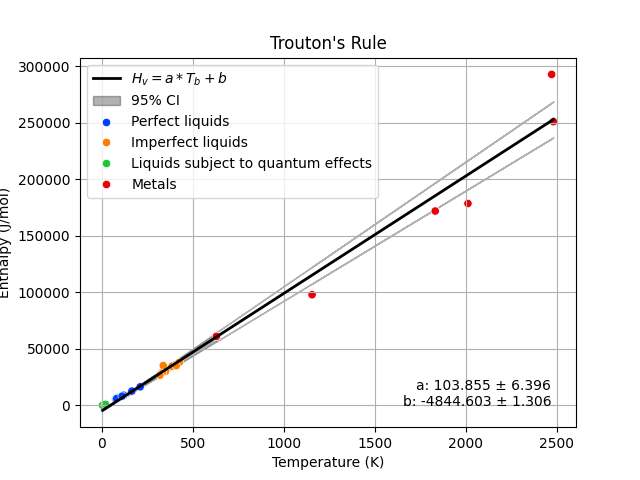
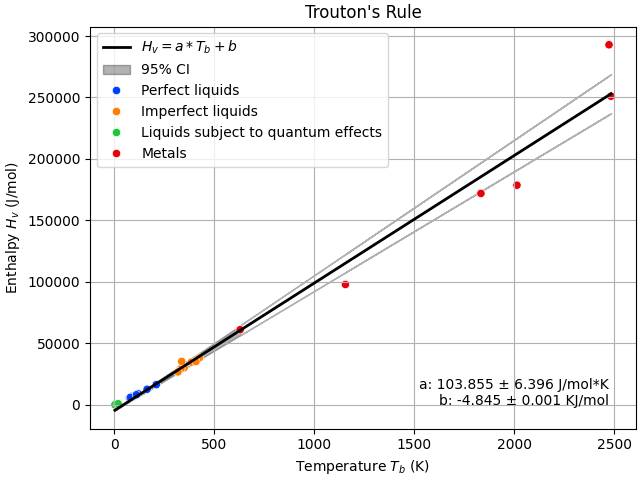
Adjusting 3-1, first commit 3-2

diff --git a/homework-3-2/troutons_rule_optimization.py b/homework-3-2/troutons_rule_optimization.py
@@ -1,0 +1,61 @@
+import numpy as np
+import pandas as pd
+import matplotlib.pyplot as plt
+from scipy.optimize import minimize
+import seaborn as sns
+
+file_path = "/workspaces/comp-prob-solv/homework-3-1/trouton.csv"
+df = pd.read_csv(file_path)
+
+#Convert for kcal to joules
+df['H_v (J/mol)'] = df['H_v (kcal/mol)'] * 4184
+
+def objective(params, x, y):
+    '''Objective function to calculate the sum of squared residuals for fitting a linear model.
+    Parameters:
+    - params: A list or array containing the parameters [a, b] to optimize.
+    - x: An array of dependent variables.
+    - y: An array of independent variables.
+
+    Returns:
+    float: Sum of squared residuals.
+    '''
+    a, b = params
+    residuals = y - (a * x + b)
+    return np.sum(residuals**2)
+
+#Initial Guess
+a_initial, b_initial = np.polyfit(df['T_B (K)'], df['H_v (J/mol)'], 1)
+initial_params = [a_initial, b_initial]
+
+# Perform the optimization
+result = minimize(objective, initial_params, args=(df['T_B (K)'].values, df['H_v (J/mol)'].values))
+print(result)
+
+# Extract optimized parameters
+a_opt, b_opt = result.x
+
+# Create a new set of predicted H_v values for plotting
+H_v_pred = a_opt * df['T_B (K)'] + b_opt
+
+
+plt.figure(constrained_layout=True)
+# Scatter plot with points color-coded by class
+sns.scatterplot(x=df["T_B (K)"], y=df["H_v (J/mol)"], hue=df["Class"], palette='bright')
+
+#Add optimized line of fit
+plt.plot(df['T_B (K)'], H_v_pred, color='black', label='$H_v = a*T_b + b$')
+
+#Adding a and b values on graph
+plt.text(0.25, 0.60, f'a: {a_opt:.3f} J/mol*K\nb: {b_opt/1000:.3f} KJ',
+         fontsize=10, ha='right', va='bottom', transform=plt.gca().transAxes)
+
+
+# Labeling the plot
+plt.title("Trouton's Rule Optimization")
+plt.xlabel("Temperature $T_B$ (K)")
+plt.ylabel("Enthalpy $H_v (J/mol)$")
+plt.legend(loc = 'upper left')
+
+
+plt.savefig("troutons_opt")

diff --git a/homework-3-1/troutons_rule.py b/homework-3-1/troutons_rule.py
@@ -99,6 +99,7 @@ CI_int = confidence_interval_intercept(x, residuals, 0.95)
 
 
 #Plotting results
+plt.figure(constrained_layout=True)
 x_range = np.linspace(x.min(), x.max(), 100)
 y_range = intercept + slope * x_range
 plt.plot(x_range, y_range, color='black', linewidth=2, label='$H_v = a*T_b + b$')
@@ -110,12 +111,12 @@ plt.fill_between(x, (slope - CI_slope) * x + (intercept - CI_int),
 # Scatter plot with points color-coded by class
 sns.scatterplot(x=x, y=y, hue=df["Class"], palette='bright')
 
-plt.text(0.95, 0.05, f'a: {slope:.3f} ± {CI_slope:.3f}\nb: {intercept:.3f} ± {CI_int:.3f}',
+plt.text(0.95, 0.05, f'a: {slope:.3f} ± {CI_slope:.3f} J/mol*K\nb: {intercept/1000:.3f} ± {CI_int/1000:.3f} KJ/mol',
          fontsize=10, ha='right', va='bottom', transform=plt.gca().transAxes)
 
 plt.title("Trouton's Rule")
-plt.xlabel('Temperature (K)')
-plt.ylabel('Enthalpy (J/mol)')
+plt.xlabel('Temperature $T_b$ (K)')
+plt.ylabel('Enthalpy $H_v$ (J/mol)')
 plt.legend()
 plt.grid()
 

diff --git a/homework-3-2/opt_discussion.md b/homework-3-2/opt_discussion.md
@@ -1,0 +1,9 @@
+# Difference in OLS and Optimization
+
+In both cases, using OLS linear regression and minimizing least squares, the same results are returned for the values of a and b. This is as expected because the goals of both methods are to return the best line of fit, jsut using different methods. The only difference between the results is that a confidence interval was calucalted for the OLS, thus giving the value of slope and intercept a range for the OLS methods nto seen in the minimization of least squares. 
+
+## Different Approches: Linear regression
+
+In cases where the data is easily intepretable and only 2 variables are being tested, it is generally the case where one method would not be preferred over the other. Optimization however may take a shorter amount of time to code, but if all functions used in OLS are pre-made there would be little to no difference. 
+When the data becomes more convoluted, optimization may be a better route. The minimization function can minimize a large amount of scalar values based on a function that is defined, which may take longer or be more confusing for an OLS model to do. 
+In general, both lines of code are aiming to have the same result (minimizing least squares); however, the minimize function has a lot of pre-built ways to minimize the scalars which has to be done by hand for the OLS method. 
